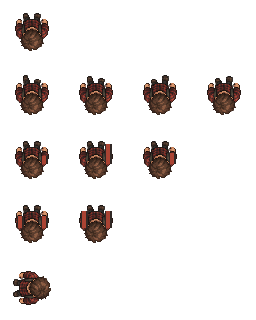
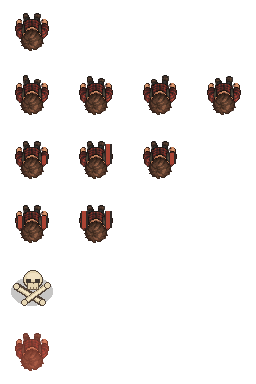
이미지 수정

diff --git a/play_mode.py b/play_mode.py
@@ -245,13 +245,16 @@ class PlayMode:
             if image is not None:
                 if zombie.state == "dead":
                     row, frame = (4 if human else 3), 0
+                elif self.world.resource_time < zombie.hurt_until:
+                    row, frame = (5 if human else 4), 0
                 elif self.world.resource_time < zombie.attack_until:
                     row, frame = 2, 1
                 else:
                     row = int(zombie.walk_time > 0)
                     frame = int(zombie.walk_time * 9) % 4 if row == 1 else 0
-                image.clip_composite_draw(frame * 64, (4 if human else 3) * 64 - row * 64,
-                                          64, 64, zombie.angle, "", x, y, 64, 64)
+                image.clip_composite_draw(frame * 64, image.h - (row + 1) * 64,
+                                          64, 64, 0 if zombie.state == "dead" else zombie.angle,
+                                          "", x, y, 64, 64)
             else:
                 p.draw_rectangle(x-8, y-8, x+8, y+8, 82, 154, 84, filled=True)
             if zombie.purify_at is not None:

diff --git a/zombie.py b/zombie.py
@@ -19,6 +19,7 @@ class Zombie:
         self.command = "wait"
         self.command_target = None
         self.attack_until = 0.0
+        self.hurt_until = 0.0
         self.human = False
 
     def move_toward(self, world, x, y, dt, speed, stop):
@@ -61,8 +62,11 @@ class Zombie:
                         player.take_damage(5, world.resource_time)
                     else:
                         target.health = max(0, target.health - 5)
-                    if target is not player and target.health == 0:
-                        target.state = "dead"
+                    if target is not player:
+                        if target.health == 0:
+                            target.state = "dead"
+                        else:
+                            target.hurt_until = world.resource_time + 0.16
                     self.next_hit = world.resource_time + 2
                     self.attack_until = world.resource_time + 0.24
             elif distance <= 280:

diff --git a/world.py b/world.py
@@ -217,6 +217,7 @@ class World:
             return
         zombie.health = max(0, zombie.health - damage)
         if zombie.health:
+            zombie.hurt_until = self.resource_time + 0.16
             return
         zombie.state = "dead"
         zombie.purify_at = None

diff --git a/assets/ASSET_GUIDE.md b/assets/ASSET_GUIDE.md
@@ -23,3 +23,12 @@ pico2d에서 잘라 그릴 때 소스 좌표는 `x = col * 64`, `y = (1 - row) *
 | quickbar.png | 282×64 | 48×48 슬롯 5개. 첫 슬롯 (9, 8), 가로 간격 54px. 선택 시 slot_selected.png를 겹친다. |
 | inventory.png | 350×258 | 48×48 슬롯 6열×3행. 첫 슬롯 (16, 49), 가로·세로 간격 54px. |
 | crafting.png | 440×280 | 왼쪽 레시피 목록은 (20, 56)부터 세로 간격 63px로 3칸. 결과 슬롯은 (183, 59), 재료 표시는 (184, 121)부터 세로 간격 29px로 3줄. 제작 버튼 범위는 (293, 222)~(414, 251). |
+
+## NPC 피격·사망 프레임
+
+| 시트 | 크기 / 유효 프레임 | 사망 행·열 | 피격 행·열 |
+| --- | --- | --- | --- |
+| characters/zombie_01.png~zombie_03.png | 256×320 / 10 | 3행 0열 | 4행 0열 |
+| characters/human_01.png~human_03.png | 256×384 / 12 | 4행 0열 | 5행 0열 |
+
+각 상태는 64×64 한 프레임이다. pico2d 좌하단 기준으로 두 계열 모두 사망은 `(0,64,64,64)`, 피격은 `(0,0,64,64)`다. 기존 행의 소스 y는 64px씩 증가하므로 실제 시트 높이로 계산한다. 피격 시 붉은 자세를 짧게 표시한다. 사망 시에는 해골과 뼈를 표시하고 피격·장착 무기·정화 표시는 종료한다. 플레이어의 기존 붉은 피격 프레임은 4행 0열, 소스 `(0,1088,64,64)`다.
